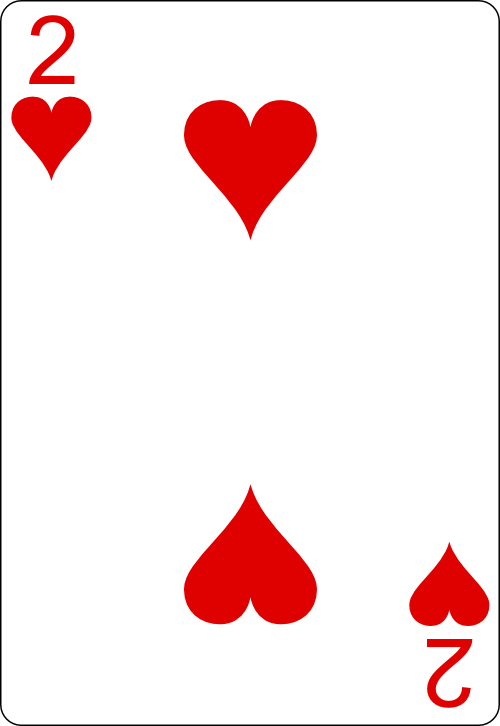
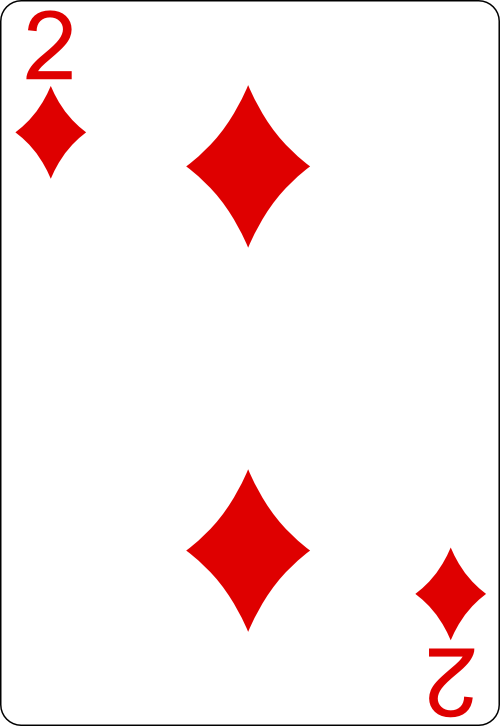
Added Plyaer model

diff --git a/mainwindow.cpp b/mainwindow.cpp
@@ -3,6 +3,8 @@
 #include "card.h"
 #include "carddrawing.h"
 #include "deck.h"
+#include "player.h"
+#include <QDebug>
 
 MainWindow::MainWindow(QWidget *parent) :
     QMainWindow(parent),
@@ -14,35 +16,39 @@ MainWindow::MainWindow(QWidget *parent) :
     Deck newDeck = Deck();
     Card randomCard = newDeck.popRandomCard();
 
-    CardDrawing *cardDraw = new CardDrawing();
-    QPixmap pix = QPixmap(QString::fromStdString(randomCard.convert()));
-    cardDraw->drawWithPixmap(pix);
-    ui->player1Layout->addWidget(cardDraw);
-    Card randomCard2 = newDeck.popRandomCard();
-
-    CardDrawing *cardDraw2 = new CardDrawing();
-    QPixmap pix2 = QPixmap(QString::fromStdString(randomCard2.convert()));
-    cardDraw2->drawWithPixmap(pix2);
-    ui->player1Layout->addWidget(cardDraw2);
-
-
-    Card randomCard3 = newDeck.popRandomCard();
-    CardDrawing *cardDraw3 = new CardDrawing();
-    QPixmap pix3 = QPixmap(QString::fromStdString(randomCard3.convert()));
-    cardDraw3->drawWithPixmap(pix3);
-    ui->player1Layout->addWidget(cardDraw3);
-
-    Card randomCard4 = newDeck.popRandomCard();
-    CardDrawing *cardDraw4 = new CardDrawing();
-    QPixmap pix4 = QPixmap(QString::fromStdString(randomCard4.convert()));
-    cardDraw4->drawWithPixmap(pix4);
-    ui->player1Layout->addWidget(cardDraw4);
-
 //    Card randomCard5 = newDeck.popRandomCard();
 //    CardDrawing *cardDraw5 = new CardDrawing();
 //    QPixmap pix5 = QPixmap(QString::fromStdString(randomCard5.convert()));
 //    cardDraw2->drawWithPixmap(pix5);
 //    ui->player1Layout->addWidget(cardDraw5);
+
+    Player player = Player("Vivek");
+    player.setUnique_num(1);
+    for(int i =0; i<43 ;i++)
+        newDeck.popRandomCard();
+    player.addCardToHand(newDeck.popRandomCard());
+    player.addCardToHand(newDeck.popRandomCard());
+    player.addCardToHand(newDeck.popRandomCard());
+    player.addCardToHand(newDeck.popRandomCard());
+
+
+
+    std::vector<Card> * playerHand = player.getCardHand();
+    for(int itereator = 0; itereator!= playerHand->size(); itereator++){
+        Card card = playerHand->at(itereator);
+        qDebug()<<card.getValue()<<"\n";
+        CardDrawing *cardDrawing = new CardDrawing();
+        QPixmap pixmap = QPixmap(QString::fromStdString(card.convert()));
+        cardDrawing->drawWithPixmap(pixmap);
+        ui->player1Layout->addWidget(cardDrawing);
+    }
+
+    // To hide remaining player name
+    ui->player2Name->hide();
+    ui->player3Name->hide();
+    ui->player4Name->hide();
+    ui->player5Name->hide();
+    ui->player1Name->setText(player.getName());
 
 
 }

diff --git a/networkoperationmanager.h b/networkoperationmanager.h
@@ -1,0 +1,20 @@
+#ifndef NETWORKOPERATIONMANAGER_H
+#define NETWORKOPERATIONMANAGER_H
+#include <QUdpSocket>
+#include <QTcpSocket>
+
+class NetworkOperationManager
+{
+public:
+    NetworkOperationManager();
+    qint64 multicastDatagram(const QByteArray &datagram, const QHostAddress &host, quint16 port);
+    void connectToHost(const QHostAddress &address, quint16 port); // This is for TCPSocket
+
+private:
+    QUdpSocket multicastSocket;
+    QTcpSocket connectionSocket;
+
+
+};
+
+#endif // NETWORKOPERATIONMANAGER_H

diff --git a/player.cpp b/player.cpp
@@ -5,3 +5,38 @@ Player::Player()
 
 }
 
+Player::Player(QString nick, bool isFold)
+{
+    nick_name = nick;
+    fold = isFold;
+}
+
+void Player::setFoldTrue()
+{
+    fold = true;
+}
+
+bool Player::isFold()
+{
+    return fold;
+}
+
+void Player::setUnique_num(int num)
+{
+    unique_num = num;
+}
+
+void Player::addCardToHand(Card card)
+{
+    hand.push_back(card);
+}
+
+std::vector<Card> * Player::getCardHand()
+{
+    return &hand;
+}
+
+QString  Player::getName() const
+{
+    return  nick_name;
+}

diff --git a/deck.cpp b/deck.cpp
@@ -3,10 +3,10 @@
 
 Deck::Deck()
 {
-    for(int suitID = Suit::SPADES ; suitID != Suit::CLUBS ; suitID++)
+    for(int suitID = Suit::SPADES ; suitID <= Suit::CLUBS ; suitID++)
     {
         Suit suit = static_cast<Suit>(suitID);
-        for(int rankID = Rank::ACE; rankID != Rank::KING; rankID++)
+        for(int rankID = Rank::ACE; rankID <= Rank::KING; rankID++)
         {
             Rank rank = static_cast<Rank>(rankID);
             Card card = Card(rank,suit,true);

diff --git a/player.h b/player.h
@@ -7,14 +7,21 @@ class Player
 {
 public:
     Player();
-    Player(QString nick_name,bool fold = false);
+    Player(QString nick,bool isFold = false);
+    void setUnique_num(int num);
+    void addCardToHand(Card card);
+    void setFoldTrue();
+    bool isFold();
+    std::vector<Card> * getCardHand();
+    QString getName() const;
+
+
+
 private:
     QString nick_name;
     int unique_num;
     std::vector<Card> hand;
     bool fold;
-
-
 };
 
 #endif // PLAYER_H

diff --git a/networkoperationmanager.cpp b/networkoperationmanager.cpp
@@ -1,0 +1,16 @@
+#include "networkoperationmanager.h"
+
+NetworkOperationManager::NetworkOperationManager()
+{
+
+}
+
+void NetworkOperationManager::connectToHost(const QHostAddress &address, quint16 port)
+{
+    connectionSocket.connectToHost(address,port);
+}
+
+quint16 NetworkOperationManager::multicastDatagram(const QByteArray &datagram, const QHostAddress &host, quint16 port)
+{
+   return multicastSocket.writeDatagram(datagram,host,port);
+}

diff --git a/connectionwindow.h b/connectionwindow.h
@@ -1,0 +1,22 @@
+#ifndef CONNECTIONWINDOW_H
+#define CONNECTIONWINDOW_H
+
+#include <QMainWindow>
+
+namespace Ui {
+class ConnectionWindow;
+}
+
+class ConnectionWindow : public QMainWindow
+{
+    Q_OBJECT
+
+public:
+    explicit ConnectionWindow(QWidget *parent = 0);
+    ~ConnectionWindow();
+
+private:
+    Ui::ConnectionWindow *ui;
+};
+
+#endif // CONNECTIONWINDOW_H

diff --git a/card.cpp b/card.cpp
@@ -17,8 +17,10 @@ Card::Card()
         int value = 0;
         if (isFaceUp)
         {
-            //value is number showing on card
-            value = rank;
+            if(rank > 10)
+                value = 10;
+            else
+                value = rank;
 
     }
         return value;

diff --git a/connectionwindow.cpp b/connectionwindow.cpp
@@ -1,0 +1,14 @@
+#include "connectionwindow.h"
+#include "ui_connectionwindow.h"
+
+ConnectionWindow::ConnectionWindow(QWidget *parent) :
+    QMainWindow(parent),
+    ui(new Ui::ConnectionWindow)
+{
+    ui->setupUi(this);
+}
+
+ConnectionWindow::~ConnectionWindow()
+{
+    delete ui;
+}

diff --git a/main.cpp b/main.cpp
@@ -1,10 +1,10 @@
-#include "mainwindow.h"
+#include "connectionwindow.h"
 #include <QApplication>
 
 int main(int argc, char *argv[])
 {
     QApplication a(argc, argv);
-    MainWindow w;
+    ConnectionWindow w;
     w.show();
 
     return a.exec();
